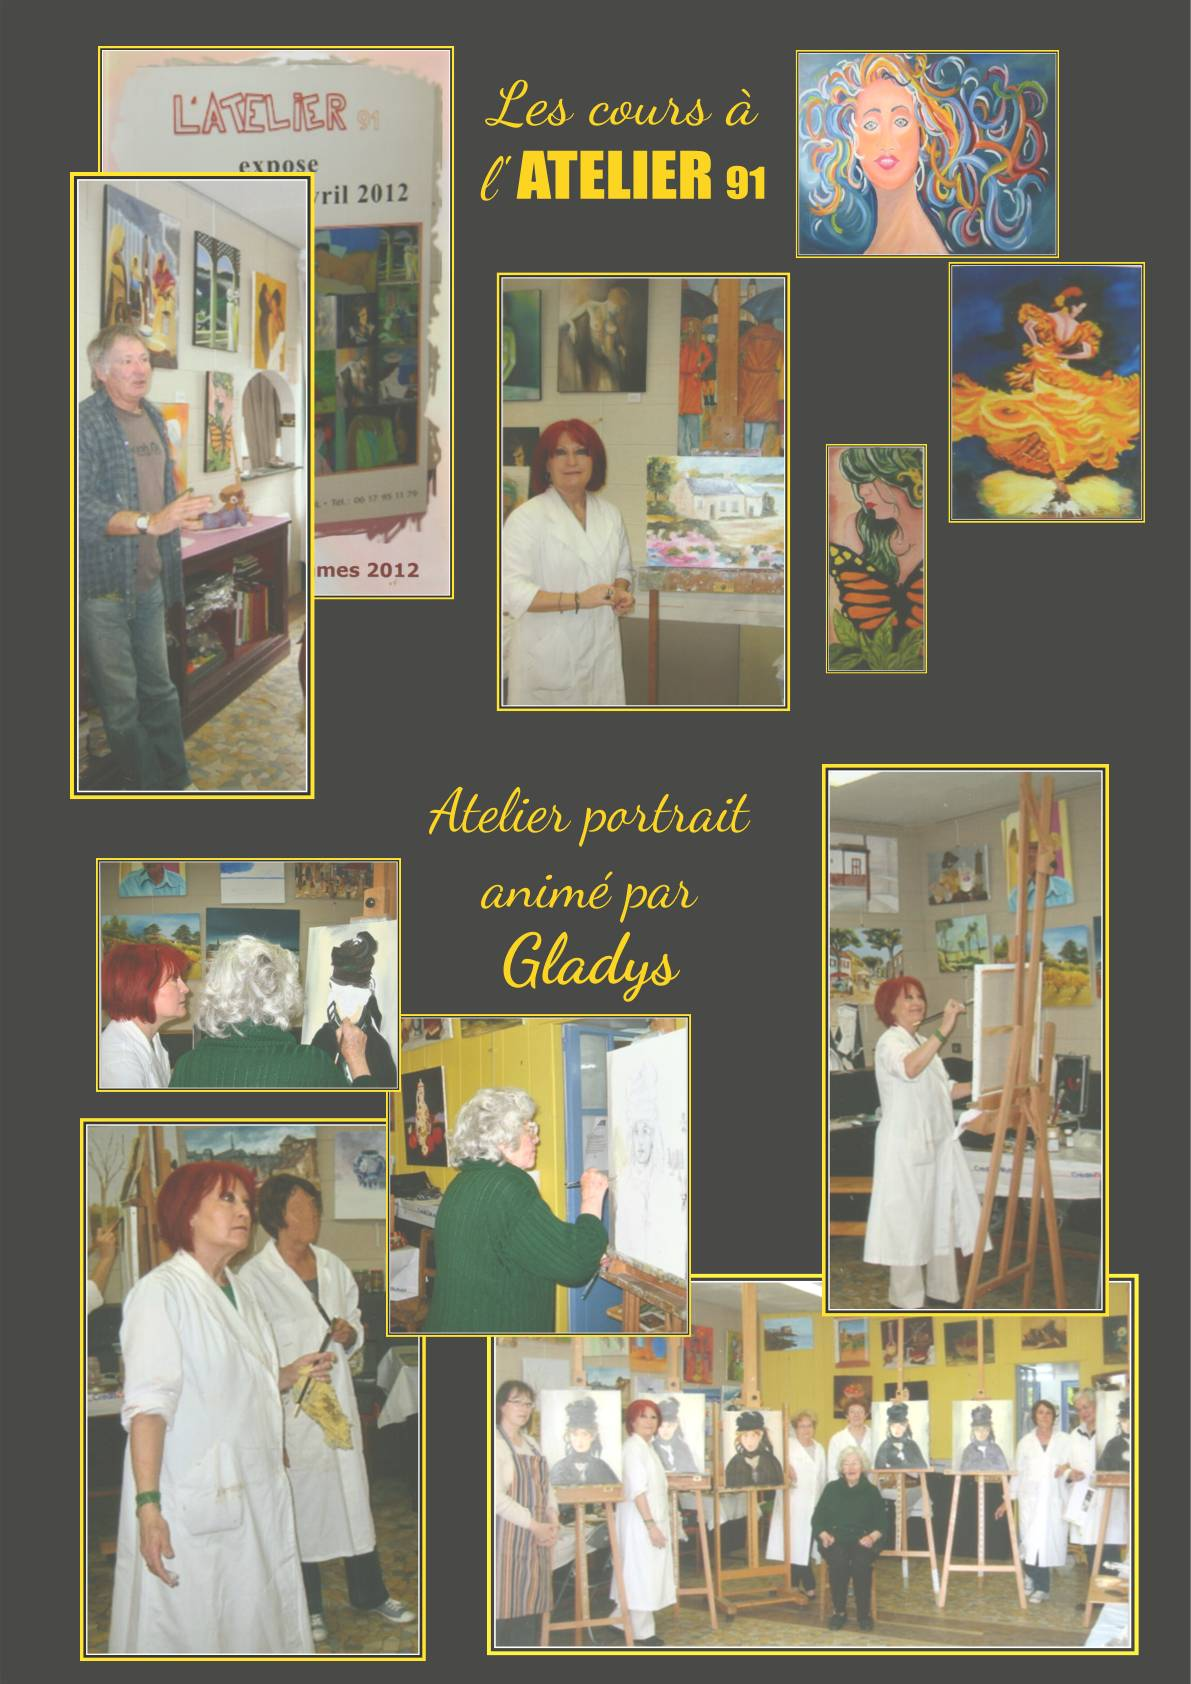
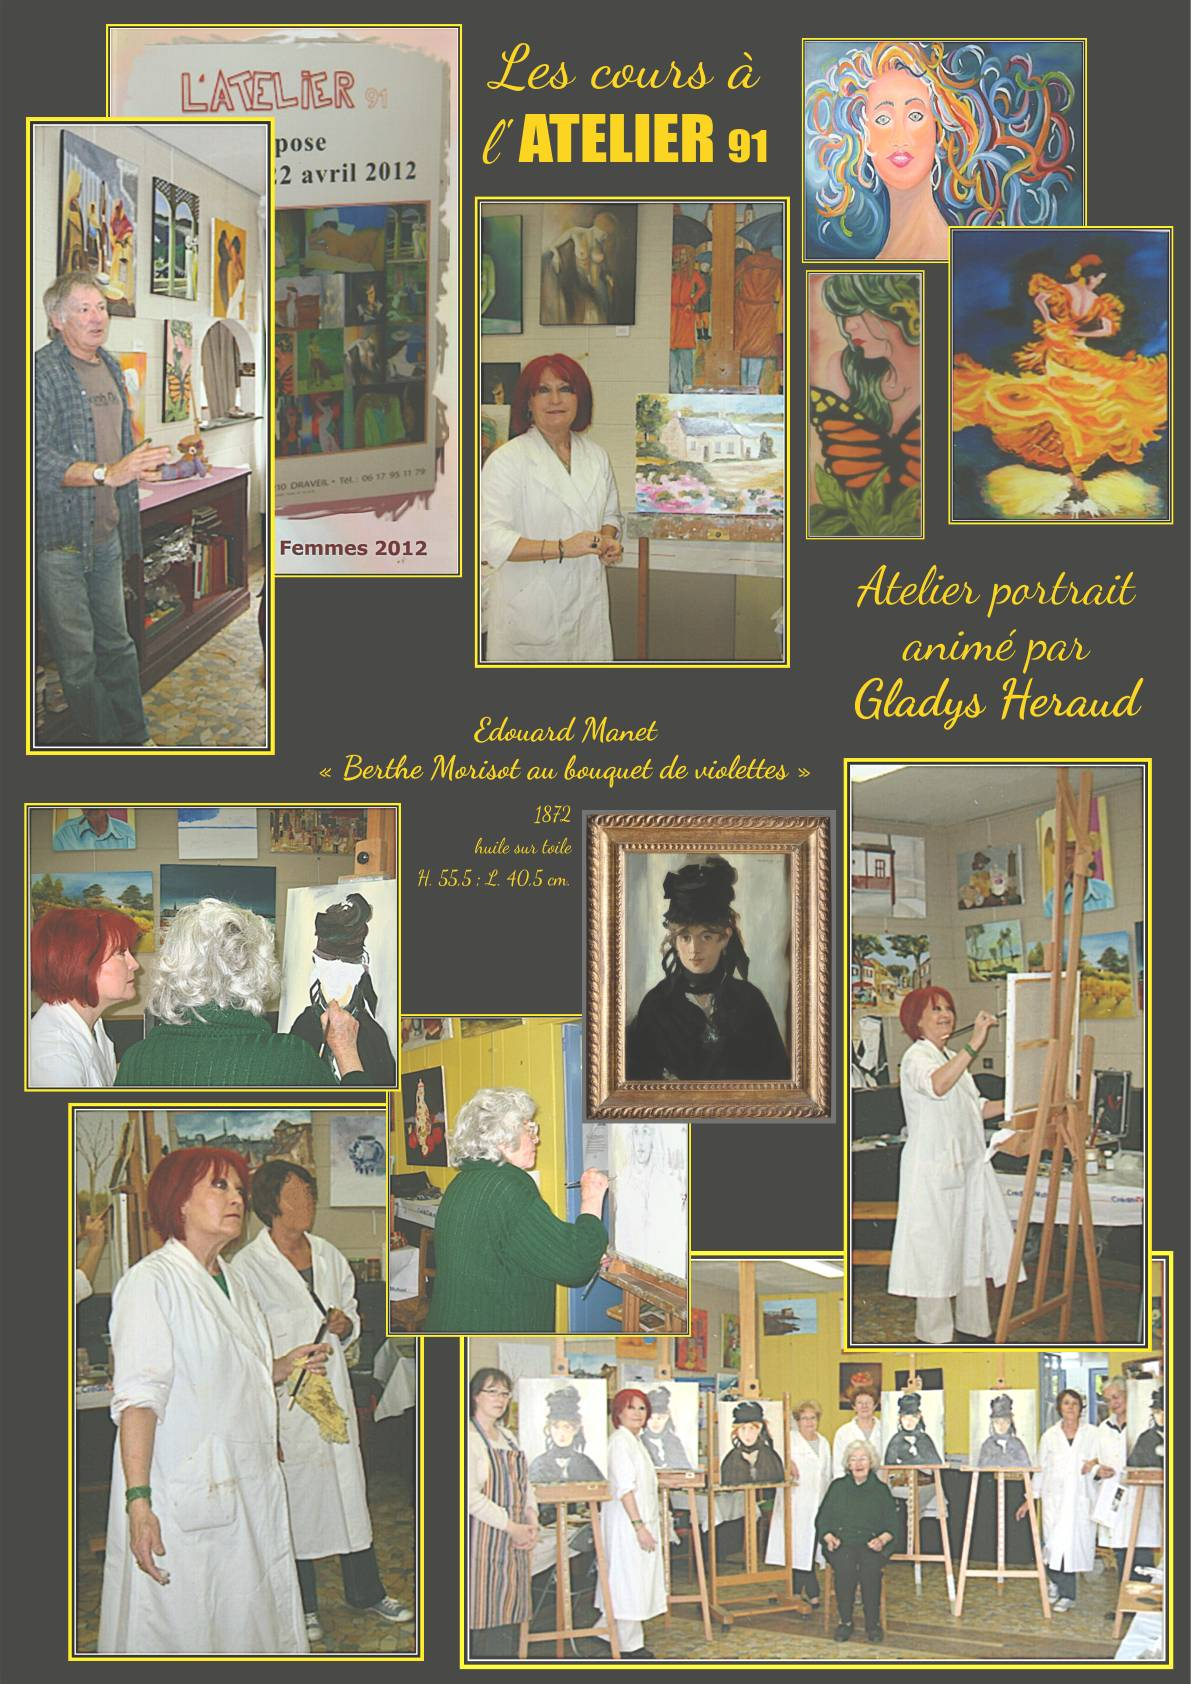
ajout Gladys

diff --git a/content/presentation/_index.md b/content/presentation/_index.md
@@ -11,11 +11,15 @@ draft: false
 # nombre pair, affiche à gauche, impair, affiche à droite.
 resources:
 - src: "/presentation/presentation.jpg"
-  weight: 20
+  weight: 10
 - src: "/presentation/presentation_2026_D-page001.jpg"
-  weight: 25
+  weight: 15
 - src: "/presentation/presentation_2026_UK-page001.jpg"
-  weight: 30
+  weight: 20
 - src: "/presentation/photos_Atelier_91.jpg"
+  weight: 25
+- src: "/presentation/Gladys_Heraud_copiste-page001.jpg"
+  weight: 30
+- src: "/presentation/Gladys_Heraud_copiste-page002.jpg"
   weight: 35
 ---
